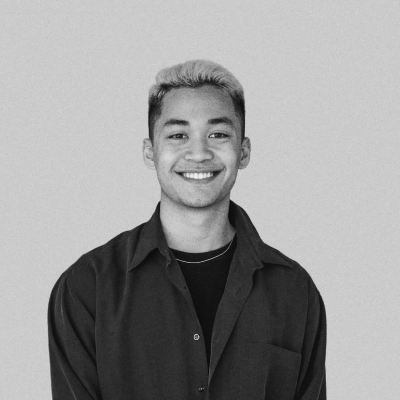
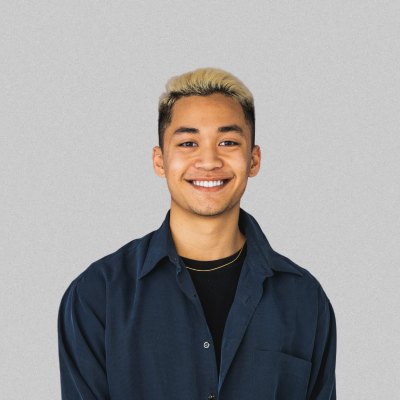
final

Changed region(s): [[0.12, 0.15, 0.84, 1.0], [0.36, 0.96, 0.42, 1.0], [0.36, 0.87, 0.39, 0.93]]

diff --git a/index.html b/index.html
@@ -53,7 +53,7 @@
         <div class="aboutContainer" data-aos="fade-up">
           <h2 class="sectionTitle">about</h2>
           <div class="portrait">
-            <img src="assets/portrait.png" alt="">
+            <img src="assets/portrait.png" alt="Pierce Morales">
           </div>
           <p class="aboutContainer__text">Hi! I'm Pierce Morales and I’m a front-end developer with a background of logical problem solving and a strong passion for design. I love building
           beautiful web applications that are accessible to all users and I care deeply about overall user experience. I have

diff --git a/styles/styles.css b/styles/styles.css
@@ -486,8 +486,8 @@ header .wrapper {
 
 .aboutContainer .portrait img {
   width: 100%;
-  -webkit-box-shadow: inset 0 2px 0px #dcffa6, 0 2px 5px #000;
-          box-shadow: inset 0 2px 0px #dcffa6, 0 2px 5px #000;
+  -webkit-box-shadow: 1px 1px 10px 0px #68715c;
+          box-shadow: 1px 1px 10px 0px #68715c;
 }
 
 .aboutContainer__text {

diff --git a/styles/sass/_About.scss b/styles/sass/_About.scss
@@ -23,7 +23,7 @@
     }
     img {
       width: 100%;
-      box-shadow: inset 0 2px 0px #dcffa6, 0 2px 5px #000;;
+      box-shadow: 1px 1px 10px 0px rgb(104, 113, 92);
     }
   }
   &__text {
